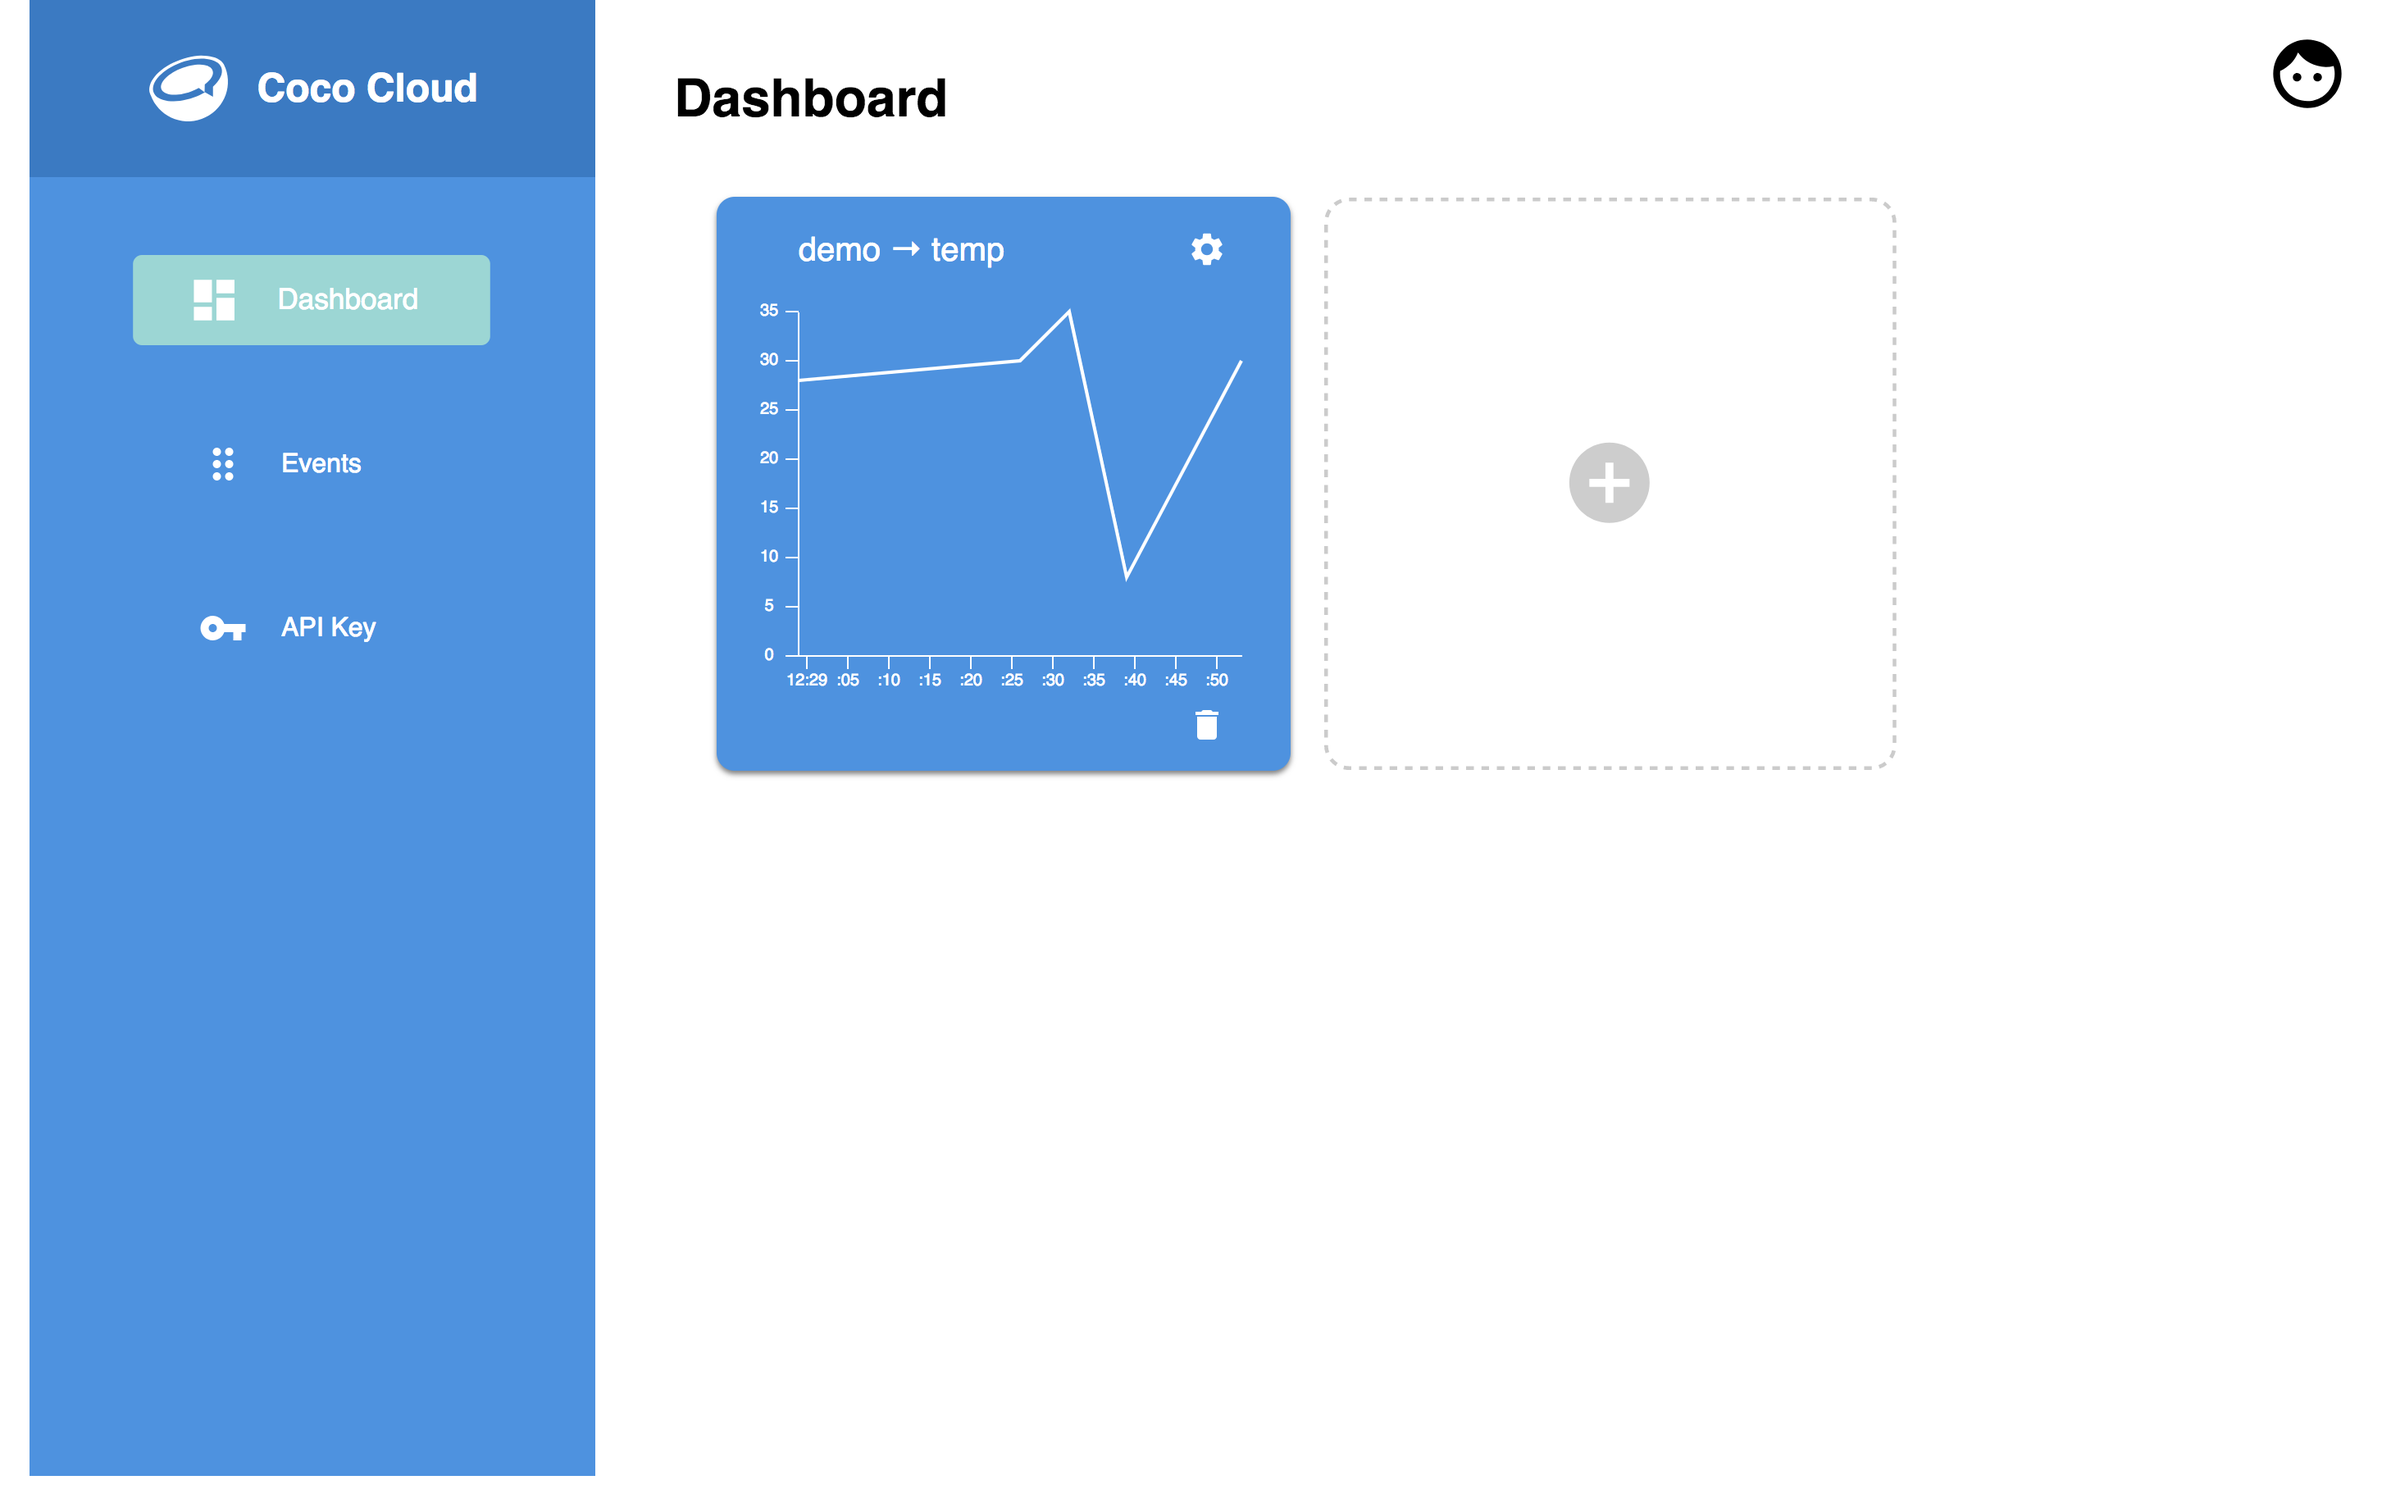
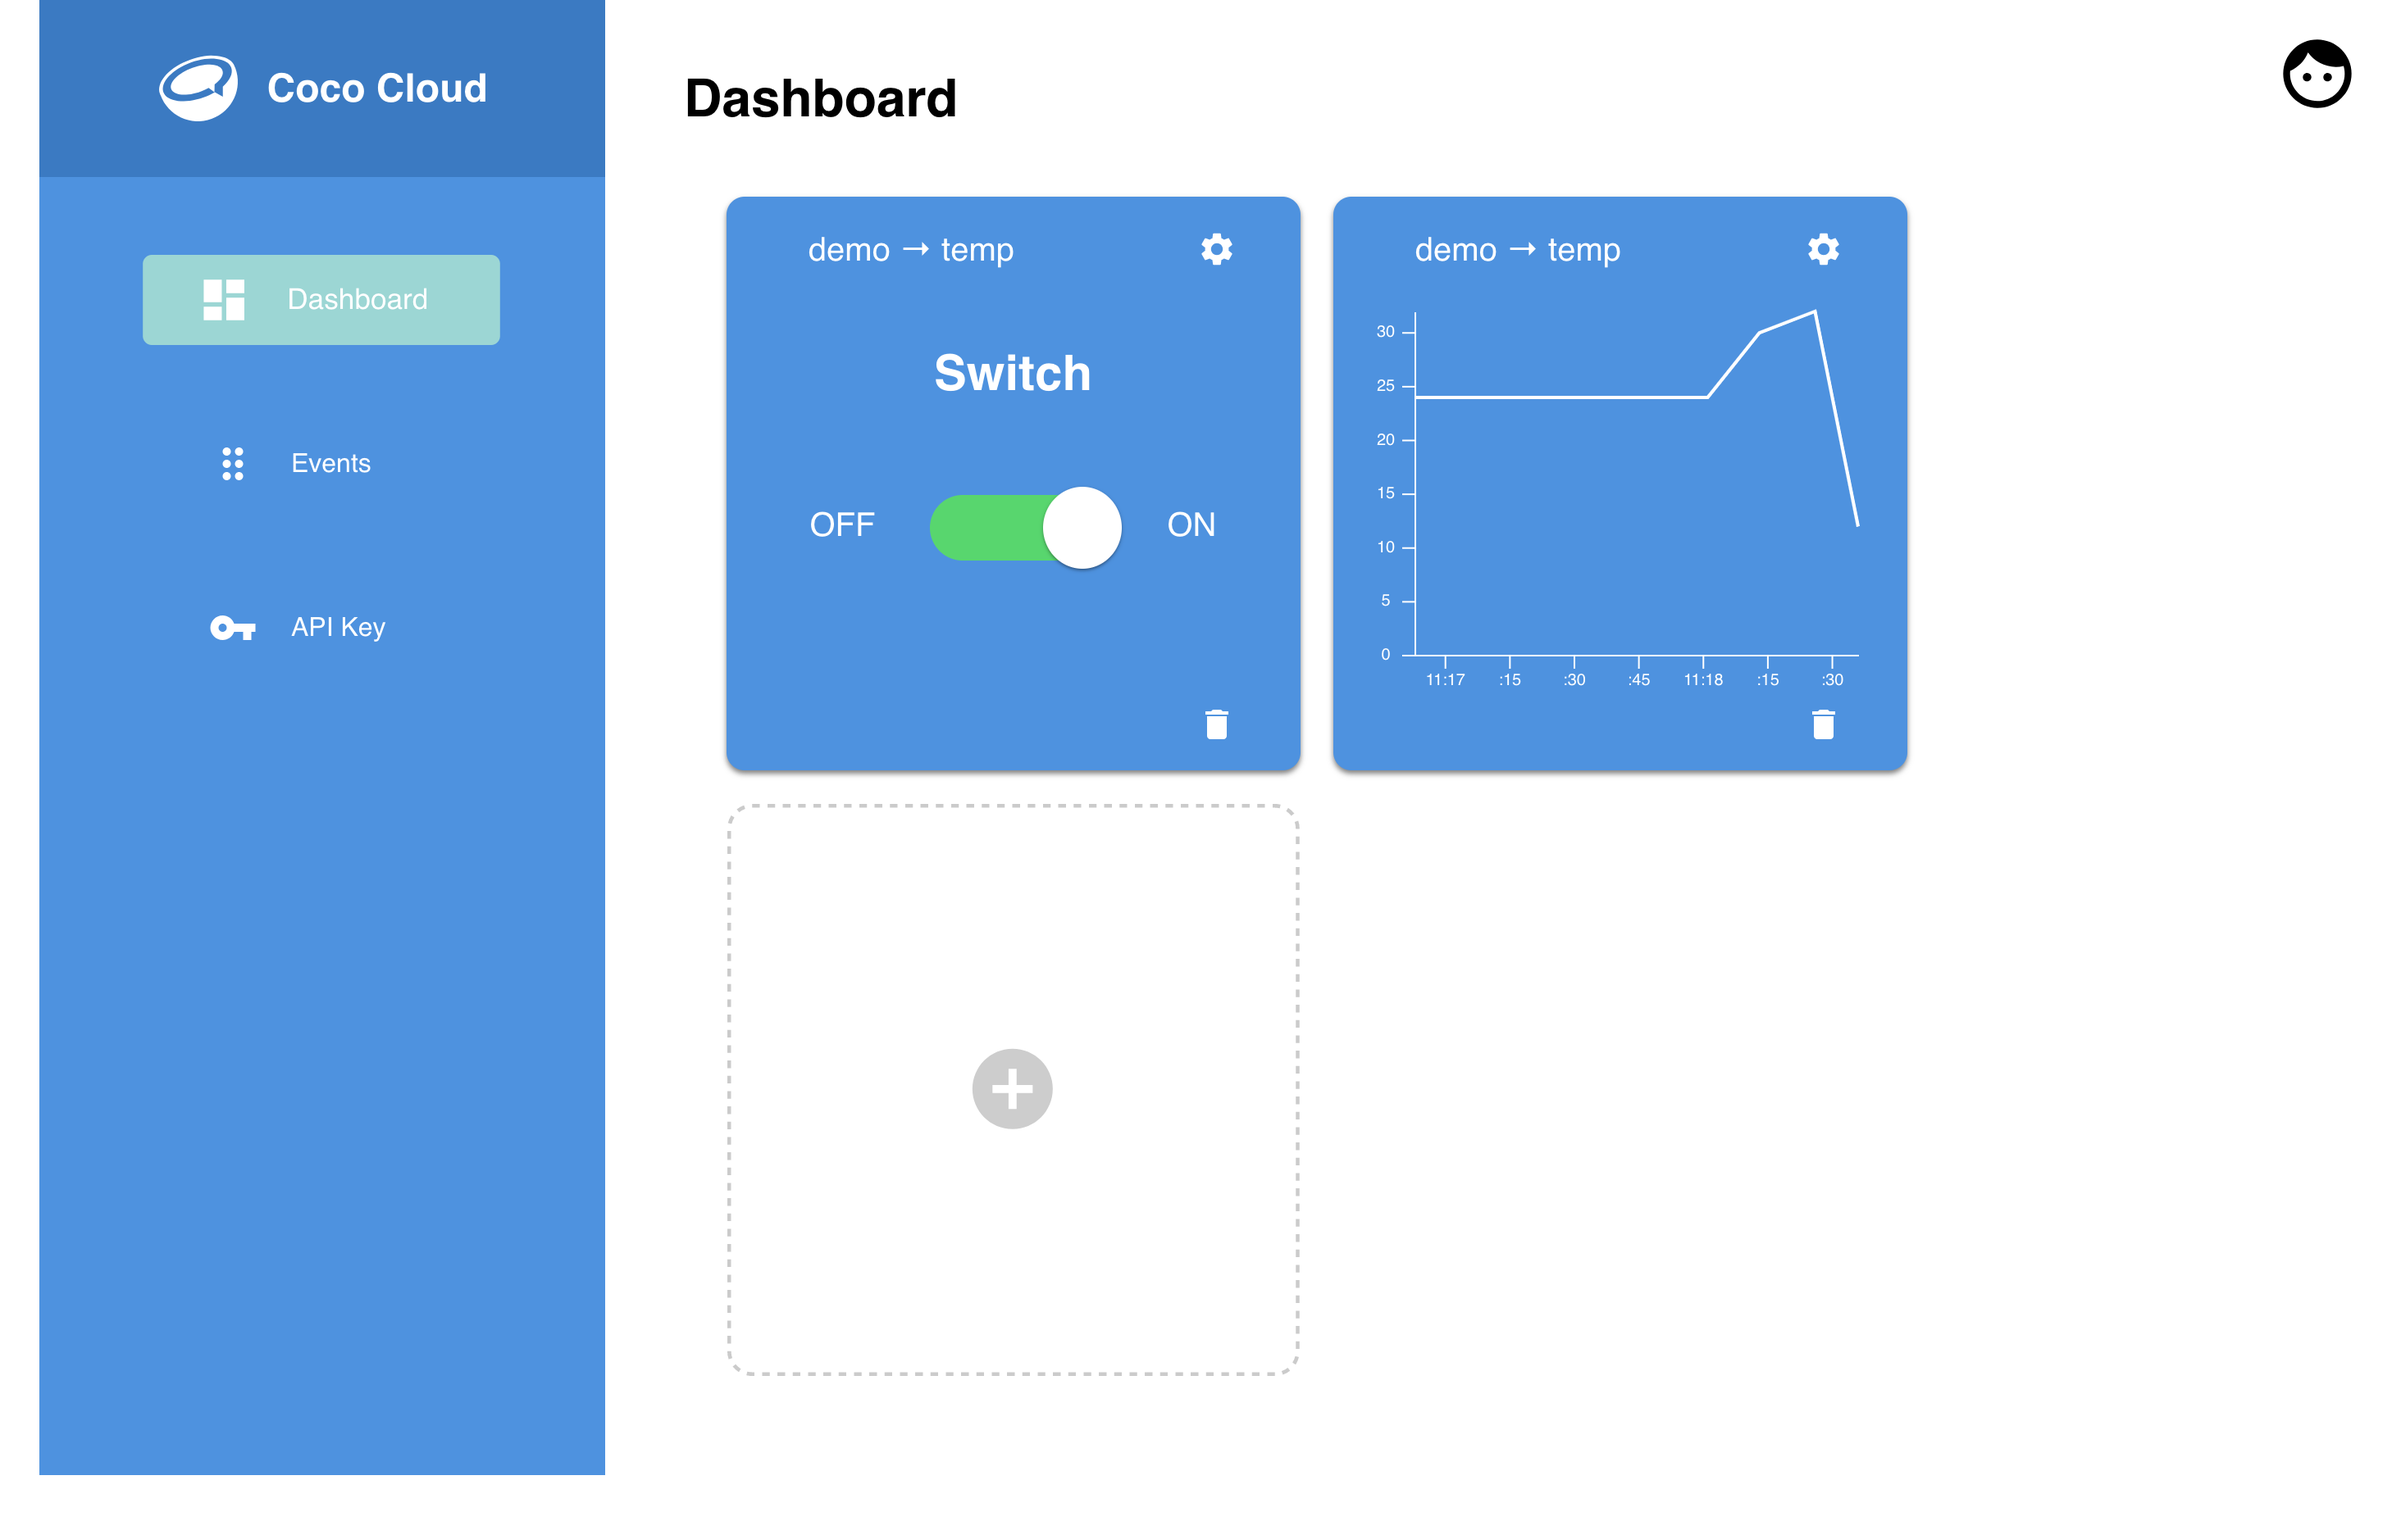
Update cocoCloud
-- update dashboard

diff --git a/cocomod/coco-cloud.md b/cocomod/coco-cloud.md
@@ -43,7 +43,7 @@ https://cocorobo.hk/cloud
 
 在 Events 中，用戶可以創建命名事件，以此來對每個屬性以及數據進行管理。
 
-### 使用方法
+### 創建方法
 
 ![cocoCloud__events](../media/cocoCloud__event--1.jpeg)
 
@@ -51,9 +51,16 @@ https://cocorobo.hk/cloud
 
 ![cocoCloud__events](../media/cocoCloud__event--2.jpeg)
 
-輸入事件名稱，與類別（非必填），點擊創建
+輸入事件名稱，與類別（非必填），點擊創建即可完成事件的建立
 
+### 使用方法
+
+#### 獲取URL
 ![cocoCloud__events](../media/cocoCloud__event--3.jpeg)
+
+點擊複製圖標即可獲取事件的URL，由此來對事件進行數據的新增。
+
+#### 事件查看
 
 點擊事件，即可看到事件的屬性，以及最後一筆數據的內容
 
@@ -66,9 +73,36 @@ https://cocorobo.hk/cloud
 
 ![cocoCloud](../media/cocoCloud__2.jpeg)
 
-### 使用方法
+### 創建方法
 
-abcd
+![cocoCloud__dashboard](../media/cocoCloud__dashboard--1.jpeg)
+
+點擊新增按鈕（ + ）
+
+![cocoCloud__dashboard](../media/cocoCloud__dashboard--2.jpeg)
+
+輸入要創建的工具種類，目前支持
+
+* 數據可視化
+* 插件
+
+輸入要創建的可視化類型或按鍵類型，目前支持
+
+* 數據可視化
+  * 線型圖
+  * 區域圖
+
+* 插件
+  * 開關
+
+輸入事件的名稱
+
+輸入欲觀察或改變的屬性
+
+點擊創建後即可看見數據的歷史數據所構成的圖表
+
+![cocoCloud](../media/cocoCloud__2.jpeg)
+
 
 ## API Key
 
